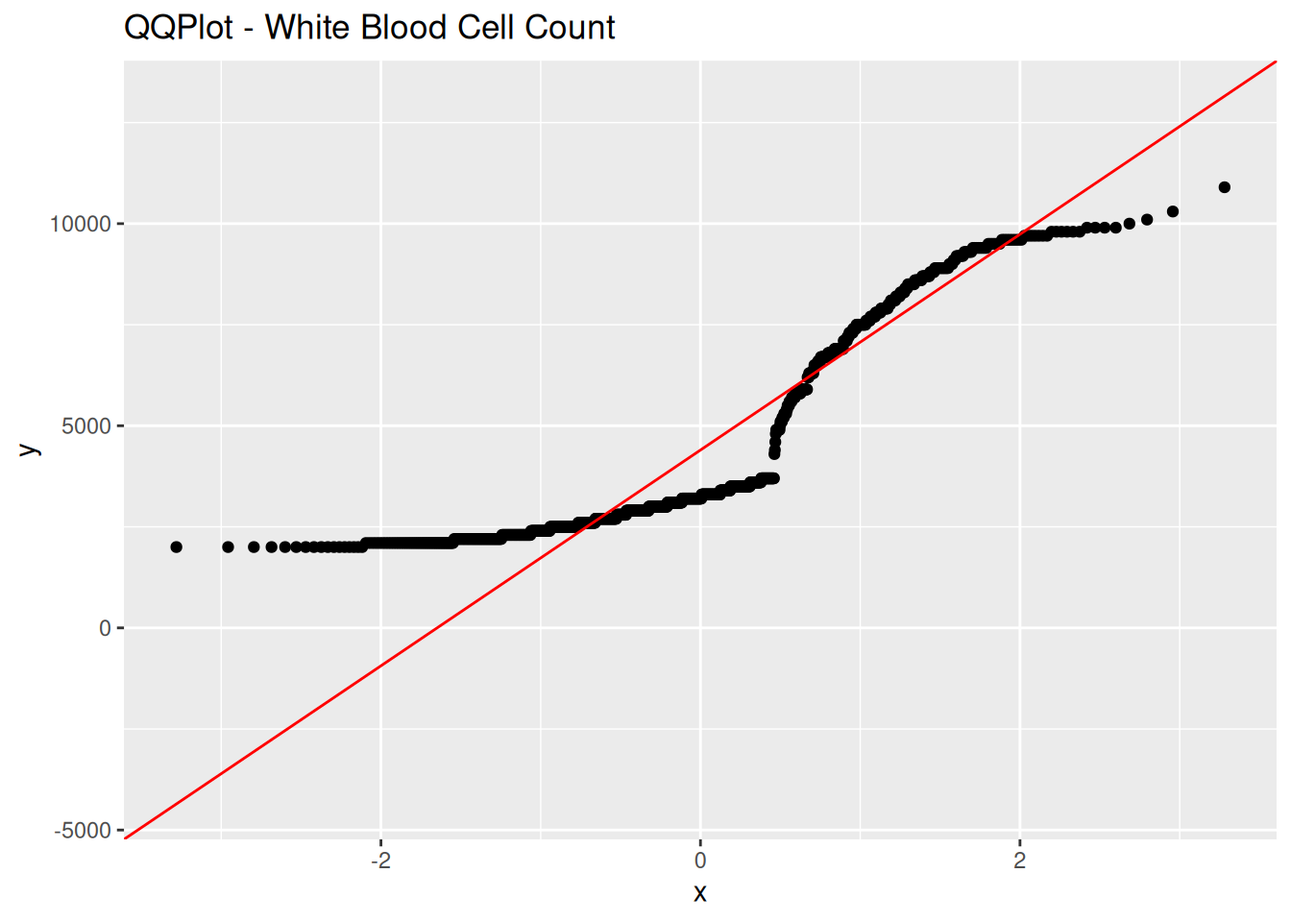
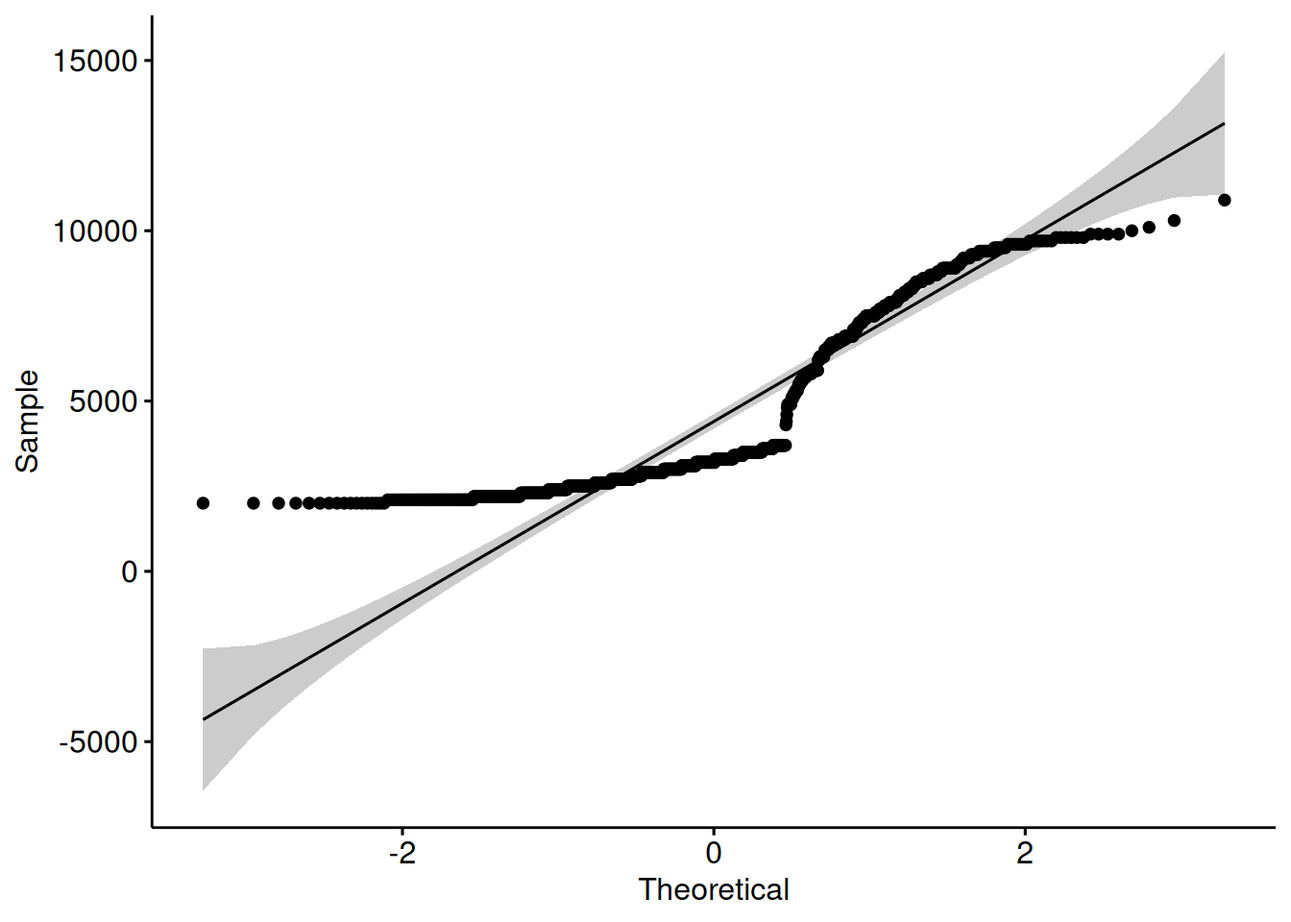
finalizacao do trabalho

diff --git a/trabalho.html b/trabalho.html
@@ -7,7 +7,7 @@
 <meta name="viewport" content="width=device-width, initial-scale=1.0, user-scalable=yes">
 
 <meta name="author" content="Alan C. Echer">
-<meta name="dcterms.date" content="2026-04-09">
+<meta name="dcterms.date" content="2026-04-13">
 
 <title>POS-GRADUAÇÃO - MBA Data Science em IA</title>
 <style>
@@ -103,6 +103,14 @@ pre > code.sourceCode > span > a:first-child::before { text-decoration: underlin
   <li><a href="#remoção-de-colunas-categóricas" id="toc-remoção-de-colunas-categóricas" class="nav-link" data-scroll-target="#remoção-de-colunas-categóricas"><span class="header-section-number">4</span> Remoção de colunas categóricas</a></li>
   <li><a href="#tratamento-de-valores-nullos" id="toc-tratamento-de-valores-nullos" class="nav-link" data-scroll-target="#tratamento-de-valores-nullos"><span class="header-section-number">5</span> Tratamento de Valores Nullos</a></li>
   <li><a href="#análise-de-pares" id="toc-análise-de-pares" class="nav-link" data-scroll-target="#análise-de-pares"><span class="header-section-number">6</span> Análise de pares</a></li>
+  <li><a href="#resultado-da-análise" id="toc-resultado-da-análise" class="nav-link" data-scroll-target="#resultado-da-análise"><span class="header-section-number">7</span> Resultado da Análise</a>
+  <ul class="collapse">
+  <li><a href="#distribuições-normais" id="toc-distribuições-normais" class="nav-link" data-scroll-target="#distribuições-normais"><span class="header-section-number">7.1</span> Distribuições normais</a></li>
+  <li><a href="#histogramas" id="toc-histogramas" class="nav-link" data-scroll-target="#histogramas"><span class="header-section-number">7.2</span> Histogramas</a></li>
+  <li><a href="#justificativa-dos-bins" id="toc-justificativa-dos-bins" class="nav-link" data-scroll-target="#justificativa-dos-bins"><span class="header-section-number">7.3</span> Justificativa dos Bins</a></li>
+  <li><a href="#shapiro-wilk" id="toc-shapiro-wilk" class="nav-link" data-scroll-target="#shapiro-wilk"><span class="header-section-number">7.4</span> Shapiro-Wilk</a></li>
+  </ul></li>
+  <li><a href="#dashboard-interativo" id="toc-dashboard-interativo" class="nav-link" data-scroll-target="#dashboard-interativo"><span class="header-section-number">8</span> Dashboard Interativo</a></li>
   </ul>
 </nav>
 </div>
@@ -128,7 +136,7 @@ pre > code.sourceCode > span > a:first-child::before { text-decoration: underlin
     <div>
     <div class="quarto-title-meta-heading">Published</div>
     <div class="quarto-title-meta-contents">
-      <p class="date">April 9, 2026</p>
+      <p class="date">April 13, 2026</p>
     </div>
   </div>
   
@@ -143,6 +151,13 @@ pre > code.sourceCode > span > a:first-child::before { text-decoration: underlin
 <section id="escolha-da-base-de-dados" class="level1" data-number="1">
 <h1 data-number="1"><span class="header-section-number">1</span> Escolha da Base de Dados</h1>
 <p>A base escolhida foi o dataset de Detecção de Dengue (dados clinicos) - Disponível no kaggle: <a href="https://www.kaggle.com/datasets/aravind3505/dengue-detection-dataset-clinical-data" class="uri">https://www.kaggle.com/datasets/aravind3505/dengue-detection-dataset-clinical-data</a></p>
+<div class="quarto-figure quarto-figure-center">
+<figure class="figure">
+<p><img src="https://storage.googleapis.com/kaggle-datasets-images/9801950/15325425/2cff7d54fd29a999223d94078bbdc0be/dataset-cover.png?t=2026-03-23-04-00-42" class="img-fluid figure-img"></p>
+<figcaption>Imagen dataset Dengue</figcaption>
+</figure>
+</div>
+<p><img src="kaggle-dataset.png" class="img-fluid"></p>
 <p>Motivo da escolha: Possui variáveis numéricas, dados faltantes, permite análise entre variáveis.</p>
 <p>Resultados esperados: Identificar relações entre variáveis, analisar distribuição dos dados.</p>
 </section>
@@ -152,14 +167,16 @@ pre > code.sourceCode > span > a:first-child::before { text-decoration: underlin
 <div class="code-copy-outer-scaffold"><div class="sourceCode cell-code" id="cb1"><pre class="sourceCode r code-with-copy"><code class="sourceCode r"><span id="cb1-1"><a href="#cb1-1" aria-hidden="true" tabindex="-1"></a><span class="fu">library</span>(summarytools)</span>
 <span id="cb1-2"><a href="#cb1-2" aria-hidden="true" tabindex="-1"></a><span class="fu">library</span>(tidyverse)</span>
 <span id="cb1-3"><a href="#cb1-3" aria-hidden="true" tabindex="-1"></a><span class="fu">library</span>(GGally)</span>
-<span id="cb1-4"><a href="#cb1-4" aria-hidden="true" tabindex="-1"></a><span class="fu">library</span>(mice)</span></code></pre></div><button title="Copy to Clipboard" class="code-copy-button"><i class="bi"></i></button></div>
+<span id="cb1-4"><a href="#cb1-4" aria-hidden="true" tabindex="-1"></a><span class="fu">library</span>(mice)</span>
+<span id="cb1-5"><a href="#cb1-5" aria-hidden="true" tabindex="-1"></a><span class="fu">library</span>(ggpubr)</span>
+<span id="cb1-6"><a href="#cb1-6" aria-hidden="true" tabindex="-1"></a><span class="fu">library</span>(shiny)</span></code></pre></div><button title="Copy to Clipboard" class="code-copy-button"><i class="bi"></i></button></div>
 </div>
 </section>
 <section id="carregamento-da-base-de-dados" class="level1" data-number="3">
 <h1 data-number="3"><span class="header-section-number">3</span> Carregamento da Base de Dados</h1>
 <div class="cell">
 <div class="code-copy-outer-scaffold"><div class="sourceCode cell-code" id="cb2"><pre class="sourceCode r code-with-copy"><code class="sourceCode r"><span id="cb2-1"><a href="#cb2-1" aria-hidden="true" tabindex="-1"></a>dados <span class="ot">&lt;-</span> <span class="fu">read.csv</span>(<span class="st">"data/dataset.csv"</span>)</span>
-<span id="cb2-2"><a href="#cb2-2" aria-hidden="true" tabindex="-1"></a><span class="fu">View</span>(dados)</span></code></pre></div><button title="Copy to Clipboard" class="code-copy-button"><i class="bi"></i></button></div>
+<span id="cb2-2"><a href="#cb2-2" aria-hidden="true" tabindex="-1"></a><span class="co">#View(dados)</span></span></code></pre></div><button title="Copy to Clipboard" class="code-copy-button"><i class="bi"></i></button></div>
 </div>
 <div class="cell">
 <div class="code-copy-outer-scaffold"><div class="sourceCode cell-code" id="cb3"><pre class="sourceCode r code-with-copy"><code class="sourceCode r"><span id="cb3-1"><a href="#cb3-1" aria-hidden="true" tabindex="-1"></a><span class="fu">summary</span>(dados)</span></code></pre></div><button title="Copy to Clipboard" class="code-copy-button"><i class="bi"></i></button></div>
@@ -319,14 +336,14 @@ Table: Table continues below
 <span id="cb7-76"><a href="#cb7-76" aria-hidden="true" tabindex="-1"></a>         <span class="at">y =</span> <span class="st">"Frequência"</span>)<span class="sc">+</span></span>
 <span id="cb7-77"><a href="#cb7-77" aria-hidden="true" tabindex="-1"></a>    <span class="fu">scale_x_continuous</span>(<span class="at">labels =</span> scales<span class="sc">::</span>comma)</span>
 <span id="cb7-78"><a href="#cb7-78" aria-hidden="true" tabindex="-1"></a>  </span>
-<span id="cb7-79"><a href="#cb7-79" aria-hidden="true" tabindex="-1"></a>  qqplot <span class="ot">&lt;-</span> <span class="fu">ggplot</span>(dados, <span class="fu">aes</span>(<span class="at">sample =</span> column)) <span class="sc">+</span></span>
-<span id="cb7-80"><a href="#cb7-80" aria-hidden="true" tabindex="-1"></a>    <span class="fu">stat_qq</span>() <span class="sc">+</span></span>
-<span id="cb7-81"><a href="#cb7-81" aria-hidden="true" tabindex="-1"></a>    <span class="fu">stat_qq_line</span>(<span class="at">color =</span> <span class="st">"red"</span>) <span class="sc">+</span></span>
-<span id="cb7-82"><a href="#cb7-82" aria-hidden="true" tabindex="-1"></a>    <span class="fu">labs</span>(<span class="at">title =</span> <span class="fu">paste</span>(<span class="st">"QQPlot -"</span>, columnLabel))</span>
-<span id="cb7-83"><a href="#cb7-83" aria-hidden="true" tabindex="-1"></a></span>
-<span id="cb7-84"><a href="#cb7-84" aria-hidden="true" tabindex="-1"></a>  <span class="fu">print</span>(box)</span>
-<span id="cb7-85"><a href="#cb7-85" aria-hidden="true" tabindex="-1"></a>  <span class="fu">print</span>(hist)</span>
-<span id="cb7-86"><a href="#cb7-86" aria-hidden="true" tabindex="-1"></a>  <span class="fu">print</span>(qqplot)</span>
+<span id="cb7-79"><a href="#cb7-79" aria-hidden="true" tabindex="-1"></a>  qqplot <span class="ot">&lt;-</span> <span class="fu">ggqqplot</span>(column)</span>
+<span id="cb7-80"><a href="#cb7-80" aria-hidden="true" tabindex="-1"></a>  </span>
+<span id="cb7-81"><a href="#cb7-81" aria-hidden="true" tabindex="-1"></a>  shapiro_test <span class="ot">&lt;-</span> <span class="fu">shapiro.test</span>(column)</span>
+<span id="cb7-82"><a href="#cb7-82" aria-hidden="true" tabindex="-1"></a></span>
+<span id="cb7-83"><a href="#cb7-83" aria-hidden="true" tabindex="-1"></a>  <span class="fu">print</span>(box)</span>
+<span id="cb7-84"><a href="#cb7-84" aria-hidden="true" tabindex="-1"></a>  <span class="fu">print</span>(hist)</span>
+<span id="cb7-85"><a href="#cb7-85" aria-hidden="true" tabindex="-1"></a>  <span class="fu">print</span>(qqplot)</span>
+<span id="cb7-86"><a href="#cb7-86" aria-hidden="true" tabindex="-1"></a>  <span class="fu">print</span>(shapiro_test)</span>
 <span id="cb7-87"><a href="#cb7-87" aria-hidden="true" tabindex="-1"></a></span>
 <span id="cb7-88"><a href="#cb7-88" aria-hidden="true" tabindex="-1"></a>}</span></code></pre></div><button title="Copy to Clipboard" class="code-copy-button"><i class="bi"></i></button></div>
 </div>
@@ -355,8 +372,19 @@ Table: Table continues below
 <section id="completude-de-dados" class="level2" data-number="3.2">
 <h2 data-number="3.2" class="anchored" data-anchor-id="completude-de-dados"><span class="header-section-number">3.2</span> Completude de dados</h2>
 <p>Os dados estão em sua maioria preenchidos a nao ser pelos poucos dados faltantes das colunas acima.</p>
+<p>Na minha visão, a completude impacta diretamente a análise exploratória, pois a presença de dados faltantes reduz a quantidade de informações disponíveis e pode comprometer os resultados.</p>
+<p>Durante a análise, percebo que valores ausentes podem distorcer medidas estatísticas, dificultar a identificação de padrões e influenciar a interpretação dos dados.</p>
+<pre><code>platelet_count: 98%</code></pre>
+<pre><code>platelet_distribution_width: 98%</code></pre>
+<pre><code>wbc_count: 97%</code></pre>
+<pre><code>age: 100%</code></pre>
+<pre><code>hemoglobin_g_dl: 100% </code></pre>
+<pre><code>differential_count: 100%</code></pre>
+<pre><code>dengue_label: 100%</code></pre>
+<pre><code>gender: 100%</code></pre>
+<pre><code>rbc_count: 100%</code></pre>
 <div class="cell">
-<div class="code-copy-outer-scaffold"><div class="sourceCode cell-code" id="cb13"><pre class="sourceCode r code-with-copy"><code class="sourceCode r"><span id="cb13-1"><a href="#cb13-1" aria-hidden="true" tabindex="-1"></a><span class="fu">colMeans</span>(<span class="sc">!</span><span class="fu">is.na</span>(dados))</span></code></pre></div><button title="Copy to Clipboard" class="code-copy-button"><i class="bi"></i></button></div>
+<div class="code-copy-outer-scaffold"><div class="sourceCode cell-code" id="cb22"><pre class="sourceCode r code-with-copy"><code class="sourceCode r"><span id="cb22-1"><a href="#cb22-1" aria-hidden="true" tabindex="-1"></a><span class="fu">colMeans</span>(<span class="sc">!</span><span class="fu">is.na</span>(dados))</span></code></pre></div><button title="Copy to Clipboard" class="code-copy-button"><i class="bi"></i></button></div>
 <div class="cell-output cell-output-stdout">
 <pre><code>                        age                      gender 
                   1.0000000                   1.0000000 
@@ -375,7 +403,7 @@ Table: Table continues below
 <h2 data-number="3.3" class="anchored" data-anchor-id="análise-da-variável-age"><span class="header-section-number">3.3</span> Análise da Variável Age</h2>
 <p>A variável age apresenta alguns outliers acima do limite superior, incluindo um valor próximo de 120 anos. Apesar disso, média e mediana são próximas, indicando que os dados não são muito assimétricos.</p>
 <div class="cell">
-<div class="code-copy-outer-scaffold"><div class="sourceCode cell-code" id="cb15"><pre class="sourceCode r code-with-copy"><code class="sourceCode r"><span id="cb15-1"><a href="#cb15-1" aria-hidden="true" tabindex="-1"></a><span class="fu">analyze_numerical</span>(dados<span class="sc">$</span>age, <span class="st">"Age"</span>)</span></code></pre></div><button title="Copy to Clipboard" class="code-copy-button"><i class="bi"></i></button></div>
+<div class="code-copy-outer-scaffold"><div class="sourceCode cell-code" id="cb24"><pre class="sourceCode r code-with-copy"><code class="sourceCode r"><span id="cb24-1"><a href="#cb24-1" aria-hidden="true" tabindex="-1"></a><span class="fu">analyze_numerical</span>(dados<span class="sc">$</span>age, <span class="st">"Age"</span>)</span></code></pre></div><button title="Copy to Clipboard" class="code-copy-button"><i class="bi"></i></button></div>
 <div class="cell-output cell-output-stdout">
 <pre><code>Média: 42.19919 
 Mediana: 40 
@@ -405,13 +433,20 @@ IQR: 28 </code></pre>
 </figure>
 </div>
 </div>
+<div class="cell-output cell-output-stdout">
+<pre><code>
+    Shapiro-Wilk normality test
+
+data:  column
+W = 0.97524, p-value = 6.081e-12</code></pre>
+</div>
 </div>
 </section>
 <section id="análise-da-variável-hemoglobin-level" class="level2" data-number="3.4">
 <h2 data-number="3.4" class="anchored" data-anchor-id="análise-da-variável-hemoglobin-level"><span class="header-section-number">3.4</span> Análise da Variável Hemoglobin Level</h2>
 <p>A variável apresenta outliers acima do limite superior, com valores próximos de 25. Mesmo assim, média e mediana são próximas, indicando baixa assimetria.</p>
 <div class="cell">
-<div class="code-copy-outer-scaffold"><div class="sourceCode cell-code" id="cb17"><pre class="sourceCode r code-with-copy"><code class="sourceCode r"><span id="cb17-1"><a href="#cb17-1" aria-hidden="true" tabindex="-1"></a><span class="fu">analyze_numerical</span>(dados<span class="sc">$</span>hemoglobin_g_dl, <span class="st">"Hemoglobin Level"</span>)</span></code></pre></div><button title="Copy to Clipboard" class="code-copy-button"><i class="bi"></i></button></div>
+<div class="code-copy-outer-scaffold"><div class="sourceCode cell-code" id="cb27"><pre class="sourceCode r code-with-copy"><code class="sourceCode r"><span id="cb27-1"><a href="#cb27-1" aria-hidden="true" tabindex="-1"></a><span class="fu">analyze_numerical</span>(dados<span class="sc">$</span>hemoglobin_g_dl, <span class="st">"Hemoglobin Level"</span>)</span></code></pre></div><button title="Copy to Clipboard" class="code-copy-button"><i class="bi"></i></button></div>
 <div class="cell-output cell-output-stdout">
 <pre><code>Média: 13.71294 
 Mediana: 13.7 
@@ -441,13 +476,20 @@ IQR: 2.4 </code></pre>
 </figure>
 </div>
 </div>
+<div class="cell-output cell-output-stdout">
+<pre><code>
+    Shapiro-Wilk normality test
+
+data:  column
+W = 0.94491, p-value &lt; 2.2e-16</code></pre>
+</div>
 </div>
 </section>
 <section id="análise-da-variável-white-blood-cell-count" class="level2" data-number="3.5">
 <h2 data-number="3.5" class="anchored" data-anchor-id="análise-da-variável-white-blood-cell-count"><span class="header-section-number">3.5</span> Análise da Variável White Blood Cell Count</h2>
 <p>A variável apresenta outliers e dados faltantes. A diferença entre média e mediana indica leve assimetria, e a distribuição não parece normal.</p>
 <div class="cell">
-<div class="code-copy-outer-scaffold"><div class="sourceCode cell-code" id="cb19"><pre class="sourceCode r code-with-copy"><code class="sourceCode r"><span id="cb19-1"><a href="#cb19-1" aria-hidden="true" tabindex="-1"></a><span class="fu">analyze_numerical</span>(dados<span class="sc">$</span>wbc_count, <span class="st">"White Blood Cell Count"</span>)</span></code></pre></div><button title="Copy to Clipboard" class="code-copy-button"><i class="bi"></i></button></div>
+<div class="code-copy-outer-scaffold"><div class="sourceCode cell-code" id="cb30"><pre class="sourceCode r code-with-copy"><code class="sourceCode r"><span id="cb30-1"><a href="#cb30-1" aria-hidden="true" tabindex="-1"></a><span class="fu">analyze_numerical</span>(dados<span class="sc">$</span>wbc_count, <span class="st">"White Blood Cell Count"</span>)</span></code></pre></div><button title="Copy to Clipboard" class="code-copy-button"><i class="bi"></i></button></div>
 <div class="cell-output cell-output-stdout">
 <pre><code>Média: 4338.031 
 Mediana: 3200 
@@ -477,13 +519,20 @@ IQR: 3600 </code></pre>
 </figure>
 </div>
 </div>
+<div class="cell-output cell-output-stdout">
+<pre><code>
+    Shapiro-Wilk normality test
+
+data:  column
+W = 0.80885, p-value &lt; 2.2e-16</code></pre>
+</div>
 </div>
 </section>
 <section id="análise-da-variável-platelet-count" class="level2" data-number="3.6">
 <h2 data-number="3.6" class="anchored" data-anchor-id="análise-da-variável-platelet-count"><span class="header-section-number">3.6</span> Análise da Variável Platelet Count</h2>
 <p>A variável apresenta outliers e dados faltantes. A diferença entre média e mediana indica assimetria nos dados.</p>
 <div class="cell">
-<div class="code-copy-outer-scaffold"><div class="sourceCode cell-code" id="cb21"><pre class="sourceCode r code-with-copy"><code class="sourceCode r"><span id="cb21-1"><a href="#cb21-1" aria-hidden="true" tabindex="-1"></a><span class="fu">analyze_numerical</span>(dados<span class="sc">$</span>platelet_count, <span class="st">"Platelet Count"</span>)</span></code></pre></div><button title="Copy to Clipboard" class="code-copy-button"><i class="bi"></i></button></div>
+<div class="code-copy-outer-scaffold"><div class="sourceCode cell-code" id="cb33"><pre class="sourceCode r code-with-copy"><code class="sourceCode r"><span id="cb33-1"><a href="#cb33-1" aria-hidden="true" tabindex="-1"></a><span class="fu">analyze_numerical</span>(dados<span class="sc">$</span>platelet_count, <span class="st">"Platelet Count"</span>)</span></code></pre></div><button title="Copy to Clipboard" class="code-copy-button"><i class="bi"></i></button></div>
 <div class="cell-output cell-output-stdout">
 <pre><code>Média: 114702.2 
 Mediana: 93000 
@@ -513,13 +562,20 @@ IQR: 116500 </code></pre>
 </figure>
 </div>
 </div>
+<div class="cell-output cell-output-stdout">
+<pre><code>
+    Shapiro-Wilk normality test
+
+data:  column
+W = 0.87991, p-value &lt; 2.2e-16</code></pre>
+</div>
 </div>
 </section>
 <section id="análise-da-variável-variation-in-platelet" class="level2" data-number="3.7">
 <h2 data-number="3.7" class="anchored" data-anchor-id="análise-da-variável-variation-in-platelet"><span class="header-section-number">3.7</span> Análise da Variável Variation in Platelet</h2>
 <p>A variável apresenta alguns outliers e dados faltantes, mas média e mediana próximas indicam baixa assimetria.</p>
 <div class="cell">
-<div class="code-copy-outer-scaffold"><div class="sourceCode cell-code" id="cb23"><pre class="sourceCode r code-with-copy"><code class="sourceCode r"><span id="cb23-1"><a href="#cb23-1" aria-hidden="true" tabindex="-1"></a><span class="fu">analyze_numerical</span>(dados<span class="sc">$</span>platelet_distribution_width, <span class="st">"Variation in Platelet"</span>)</span></code></pre></div><button title="Copy to Clipboard" class="code-copy-button"><i class="bi"></i></button></div>
+<div class="code-copy-outer-scaffold"><div class="sourceCode cell-code" id="cb36"><pre class="sourceCode r code-with-copy"><code class="sourceCode r"><span id="cb36-1"><a href="#cb36-1" aria-hidden="true" tabindex="-1"></a><span class="fu">analyze_numerical</span>(dados<span class="sc">$</span>platelet_distribution_width, <span class="st">"Variation in Platelet"</span>)</span></code></pre></div><button title="Copy to Clipboard" class="code-copy-button"><i class="bi"></i></button></div>
 <div class="cell-output cell-output-stdout">
 <pre><code>Média: 22.84887 
 Mediana: 17.8 
@@ -549,13 +605,20 @@ IQR: 14.2 </code></pre>
 </figure>
 </div>
 </div>
+<div class="cell-output cell-output-stdout">
+<pre><code>
+    Shapiro-Wilk normality test
+
+data:  column
+W = 0.65462, p-value &lt; 2.2e-16</code></pre>
+</div>
 </div>
 </section>
 <section id="análise-da-variável-dengue" class="level2" data-number="3.8">
 <h2 data-number="3.8" class="anchored" data-anchor-id="análise-da-variável-dengue"><span class="header-section-number">3.8</span> Análise da Variável Dengue</h2>
 <p>A variável mostra a distribuição dos casos com e sem dengue.</p>
 <div class="cell">
-<div class="code-copy-outer-scaffold"><div class="sourceCode cell-code" id="cb25"><pre class="sourceCode r code-with-copy"><code class="sourceCode r"><span id="cb25-1"><a href="#cb25-1" aria-hidden="true" tabindex="-1"></a><span class="fu">analyze_categorical</span>(dados<span class="sc">$</span>dengue_label, <span class="st">"Target Variable"</span>)</span></code></pre></div><button title="Copy to Clipboard" class="code-copy-button"><i class="bi"></i></button></div>
+<div class="code-copy-outer-scaffold"><div class="sourceCode cell-code" id="cb39"><pre class="sourceCode r code-with-copy"><code class="sourceCode r"><span id="cb39-1"><a href="#cb39-1" aria-hidden="true" tabindex="-1"></a><span class="fu">analyze_categorical</span>(dados<span class="sc">$</span>dengue_label, <span class="st">"Target Variable"</span>)</span></code></pre></div><button title="Copy to Clipboard" class="code-copy-button"><i class="bi"></i></button></div>
 <div class="cell-output-display">
 <div>
 <figure class="figure">
@@ -569,7 +632,7 @@ IQR: 14.2 </code></pre>
 <h2 data-number="3.9" class="anchored" data-anchor-id="análise-da-variável-gender"><span class="header-section-number">3.9</span> Análise da Variável Gender</h2>
 <p>A variável apresenta a distribuição de gênero na base, podendo indicar possível desbalanceamento.</p>
 <div class="cell">
-<div class="code-copy-outer-scaffold"><div class="sourceCode cell-code" id="cb26"><pre class="sourceCode r code-with-copy"><code class="sourceCode r"><span id="cb26-1"><a href="#cb26-1" aria-hidden="true" tabindex="-1"></a><span class="fu">analyze_categorical</span>(dados<span class="sc">$</span>gender, <span class="st">"Gender"</span>)</span></code></pre></div><button title="Copy to Clipboard" class="code-copy-button"><i class="bi"></i></button></div>
+<div class="code-copy-outer-scaffold"><div class="sourceCode cell-code" id="cb40"><pre class="sourceCode r code-with-copy"><code class="sourceCode r"><span id="cb40-1"><a href="#cb40-1" aria-hidden="true" tabindex="-1"></a><span class="fu">analyze_categorical</span>(dados<span class="sc">$</span>gender, <span class="st">"Gender"</span>)</span></code></pre></div><button title="Copy to Clipboard" class="code-copy-button"><i class="bi"></i></button></div>
 <div class="cell-output-display">
 <div>
 <figure class="figure">
@@ -583,8 +646,8 @@ IQR: 14.2 </code></pre>
 <h2 data-number="3.10" class="anchored" data-anchor-id="análise-da-variável-differential-count"><span class="header-section-number">3.10</span> Análise da Variável Differential Count</h2>
 <p>A variável apresenta a distribuição das categorias relacionadas à contagem diferencial. A análise permite observar a frequência de cada grupo e identificar possíveis desbalanceamentos.</p>
 <div class="cell">
-<div class="code-copy-outer-scaffold"><div class="sourceCode cell-code" id="cb27"><pre class="sourceCode r code-with-copy"><code class="sourceCode r"><span id="cb27-1"><a href="#cb27-1" aria-hidden="true" tabindex="-1"></a>dados<span class="sc">$</span>differential_count <span class="ot">=</span> <span class="fu">as.factor</span>(dados<span class="sc">$</span>differential_count)</span>
-<span id="cb27-2"><a href="#cb27-2" aria-hidden="true" tabindex="-1"></a><span class="fu">analyze_categorical</span>(dados<span class="sc">$</span>differential_count, <span class="st">"Diff White Blood Cell Count"</span>)</span></code></pre></div><button title="Copy to Clipboard" class="code-copy-button"><i class="bi"></i></button></div>
+<div class="code-copy-outer-scaffold"><div class="sourceCode cell-code" id="cb41"><pre class="sourceCode r code-with-copy"><code class="sourceCode r"><span id="cb41-1"><a href="#cb41-1" aria-hidden="true" tabindex="-1"></a>dados<span class="sc">$</span>differential_count <span class="ot">=</span> <span class="fu">as.factor</span>(dados<span class="sc">$</span>differential_count)</span>
+<span id="cb41-2"><a href="#cb41-2" aria-hidden="true" tabindex="-1"></a><span class="fu">analyze_categorical</span>(dados<span class="sc">$</span>differential_count, <span class="st">"Diff White Blood Cell Count"</span>)</span></code></pre></div><button title="Copy to Clipboard" class="code-copy-button"><i class="bi"></i></button></div>
 <div class="cell-output-display">
 <div>
 <figure class="figure">
@@ -598,8 +661,8 @@ IQR: 14.2 </code></pre>
 <h2 data-number="3.11" class="anchored" data-anchor-id="análise-da-variável-red-blood-cell-count"><span class="header-section-number">3.11</span> Análise da Variável Red Blood Cell Count</h2>
 <p>A variável apresenta a distribuição das categorias relacionadas à contagem de glóbulos vermelhos. É possível observar a proporção entre os grupos e verificar possíveis diferenças entre eles.</p>
 <div class="cell">
-<div class="code-copy-outer-scaffold"><div class="sourceCode cell-code" id="cb28"><pre class="sourceCode r code-with-copy"><code class="sourceCode r"><span id="cb28-1"><a href="#cb28-1" aria-hidden="true" tabindex="-1"></a>dados<span class="sc">$</span>rbc_count <span class="ot">=</span> <span class="fu">as.factor</span>(dados<span class="sc">$</span>rbc_count)</span>
-<span id="cb28-2"><a href="#cb28-2" aria-hidden="true" tabindex="-1"></a><span class="fu">analyze_categorical</span>(dados<span class="sc">$</span>rbc_count, <span class="st">"Red Blood Cell Count"</span>)</span></code></pre></div><button title="Copy to Clipboard" class="code-copy-button"><i class="bi"></i></button></div>
+<div class="code-copy-outer-scaffold"><div class="sourceCode cell-code" id="cb42"><pre class="sourceCode r code-with-copy"><code class="sourceCode r"><span id="cb42-1"><a href="#cb42-1" aria-hidden="true" tabindex="-1"></a>dados<span class="sc">$</span>rbc_count <span class="ot">=</span> <span class="fu">as.factor</span>(dados<span class="sc">$</span>rbc_count)</span>
+<span id="cb42-2"><a href="#cb42-2" aria-hidden="true" tabindex="-1"></a><span class="fu">analyze_categorical</span>(dados<span class="sc">$</span>rbc_count, <span class="st">"Red Blood Cell Count"</span>)</span></code></pre></div><button title="Copy to Clipboard" class="code-copy-button"><i class="bi"></i></button></div>
 <div class="cell-output-display">
 <div>
 <figure class="figure">
@@ -613,14 +676,14 @@ IQR: 14.2 </code></pre>
 <section id="remoção-de-colunas-categóricas" class="level1" data-number="4">
 <h1 data-number="4"><span class="header-section-number">4</span> Remoção de colunas categóricas</h1>
 <div class="cell">
-<div class="code-copy-outer-scaffold"><div class="sourceCode cell-code" id="cb29"><pre class="sourceCode r code-with-copy"><code class="sourceCode r"><span id="cb29-1"><a href="#cb29-1" aria-hidden="true" tabindex="-1"></a>dados <span class="ot">&lt;-</span> dados[, <span class="fu">sapply</span>(dados, is.numeric)]</span></code></pre></div><button title="Copy to Clipboard" class="code-copy-button"><i class="bi"></i></button></div>
+<div class="code-copy-outer-scaffold"><div class="sourceCode cell-code" id="cb43"><pre class="sourceCode r code-with-copy"><code class="sourceCode r"><span id="cb43-1"><a href="#cb43-1" aria-hidden="true" tabindex="-1"></a>dados <span class="ot">&lt;-</span> dados[, <span class="fu">sapply</span>(dados, is.numeric)]</span></code></pre></div><button title="Copy to Clipboard" class="code-copy-button"><i class="bi"></i></button></div>
 </div>
 </section>
 <section id="tratamento-de-valores-nullos" class="level1" data-number="5">
 <h1 data-number="5"><span class="header-section-number">5</span> Tratamento de Valores Nullos</h1>
 <p>Para tratar os dados faltantes, foi utilizada a técnica de imputação por meio do pacote MICE. O método utilizado foi o Predictive Mean Matching (PMM), que estima valores ausentes com base em valores observados semelhantes, preservando a distribuição dos dados. Foram realizadas 5 imputações (m=5). O parâmetro seed foi utilizado para garantir a reprodutibilidade dos resultados.</p>
 <div class="cell">
-<div class="code-copy-outer-scaffold"><div class="sourceCode cell-code" id="cb30"><pre class="sourceCode r code-with-copy"><code class="sourceCode r"><span id="cb30-1"><a href="#cb30-1" aria-hidden="true" tabindex="-1"></a>dados <span class="ot">=</span> <span class="fu">complete</span>(<span class="fu">mice</span>(dados, <span class="at">m=</span><span class="dv">5</span>, <span class="at">method=</span><span class="st">"pmm"</span>, <span class="at">seed=</span><span class="dv">123</span>))</span></code></pre></div><button title="Copy to Clipboard" class="code-copy-button"><i class="bi"></i></button></div>
+<div class="code-copy-outer-scaffold"><div class="sourceCode cell-code" id="cb44"><pre class="sourceCode r code-with-copy"><code class="sourceCode r"><span id="cb44-1"><a href="#cb44-1" aria-hidden="true" tabindex="-1"></a>dados <span class="ot">=</span> <span class="fu">complete</span>(<span class="fu">mice</span>(dados, <span class="at">m=</span><span class="dv">5</span>, <span class="at">method=</span><span class="st">"pmm"</span>, <span class="at">seed=</span><span class="dv">123</span>))</span></code></pre></div><button title="Copy to Clipboard" class="code-copy-button"><i class="bi"></i></button></div>
 <div class="cell-output cell-output-stdout">
 <pre><code>
  iter imp variable
@@ -653,7 +716,7 @@ IQR: 14.2 </code></pre>
 </div>
 <p>Verificamos novamente se existem valores nullos</p>
 <div class="cell">
-<div class="code-copy-outer-scaffold"><div class="sourceCode cell-code" id="cb32"><pre class="sourceCode r code-with-copy"><code class="sourceCode r"><span id="cb32-1"><a href="#cb32-1" aria-hidden="true" tabindex="-1"></a><span class="fu">colSums</span>(<span class="fu">is.na</span>(dados))</span></code></pre></div><button title="Copy to Clipboard" class="code-copy-button"><i class="bi"></i></button></div>
+<div class="code-copy-outer-scaffold"><div class="sourceCode cell-code" id="cb46"><pre class="sourceCode r code-with-copy"><code class="sourceCode r"><span id="cb46-1"><a href="#cb46-1" aria-hidden="true" tabindex="-1"></a><span class="fu">colSums</span>(<span class="fu">is.na</span>(dados))</span></code></pre></div><button title="Copy to Clipboard" class="code-copy-button"><i class="bi"></i></button></div>
 <div class="cell-output cell-output-stdout">
 <pre><code>                        age             hemoglobin_g_dl 
                           0                           0 
@@ -667,7 +730,24 @@ platelet_distribution_width                dengue_label
 <section id="análise-de-pares" class="level1" data-number="6">
 <h1 data-number="6"><span class="header-section-number">6</span> Análise de pares</h1>
 <div class="cell">
-<div class="code-copy-outer-scaffold"><div class="sourceCode cell-code" id="cb34"><pre class="sourceCode r code-with-copy"><code class="sourceCode r"><span id="cb34-1"><a href="#cb34-1" aria-hidden="true" tabindex="-1"></a><span class="fu">ggpairs</span>(dados)</span></code></pre></div><button title="Copy to Clipboard" class="code-copy-button"><i class="bi"></i></button></div>
+<div class="code-copy-outer-scaffold"><div class="sourceCode cell-code" id="cb48"><pre class="sourceCode r code-with-copy"><code class="sourceCode r"><span id="cb48-1"><a href="#cb48-1" aria-hidden="true" tabindex="-1"></a><span class="fu">ggpairs</span>(</span>
+<span id="cb48-2"><a href="#cb48-2" aria-hidden="true" tabindex="-1"></a>  dados,</span>
+<span id="cb48-3"><a href="#cb48-3" aria-hidden="true" tabindex="-1"></a>  </span>
+<span id="cb48-4"><a href="#cb48-4" aria-hidden="true" tabindex="-1"></a>  <span class="at">lower =</span> <span class="fu">list</span>(</span>
+<span id="cb48-5"><a href="#cb48-5" aria-hidden="true" tabindex="-1"></a>    <span class="at">continuous =</span> <span class="fu">wrap</span>(<span class="st">"points"</span>) <span class="sc">+</span></span>
+<span id="cb48-6"><a href="#cb48-6" aria-hidden="true" tabindex="-1"></a>      <span class="fu">scale_x_continuous</span>(<span class="at">labels =</span> scales<span class="sc">::</span>comma) <span class="sc">+</span></span>
+<span id="cb48-7"><a href="#cb48-7" aria-hidden="true" tabindex="-1"></a>      <span class="fu">scale_y_continuous</span>(<span class="at">labels =</span> scales<span class="sc">::</span>comma)</span>
+<span id="cb48-8"><a href="#cb48-8" aria-hidden="true" tabindex="-1"></a>  ),</span>
+<span id="cb48-9"><a href="#cb48-9" aria-hidden="true" tabindex="-1"></a>  </span>
+<span id="cb48-10"><a href="#cb48-10" aria-hidden="true" tabindex="-1"></a>  <span class="at">diag =</span> <span class="fu">list</span>(</span>
+<span id="cb48-11"><a href="#cb48-11" aria-hidden="true" tabindex="-1"></a>    <span class="at">continuous =</span> <span class="fu">wrap</span>(<span class="st">"densityDiag"</span>) <span class="sc">+</span></span>
+<span id="cb48-12"><a href="#cb48-12" aria-hidden="true" tabindex="-1"></a>      <span class="fu">scale_x_continuous</span>(<span class="at">labels =</span> scales<span class="sc">::</span>comma)</span>
+<span id="cb48-13"><a href="#cb48-13" aria-hidden="true" tabindex="-1"></a>  ),</span>
+<span id="cb48-14"><a href="#cb48-14" aria-hidden="true" tabindex="-1"></a>  </span>
+<span id="cb48-15"><a href="#cb48-15" aria-hidden="true" tabindex="-1"></a>  <span class="at">upper =</span> <span class="fu">list</span>(</span>
+<span id="cb48-16"><a href="#cb48-16" aria-hidden="true" tabindex="-1"></a>    <span class="at">continuous =</span> <span class="fu">wrap</span>(<span class="st">"cor"</span>, <span class="at">size =</span> <span class="dv">4</span>)</span>
+<span id="cb48-17"><a href="#cb48-17" aria-hidden="true" tabindex="-1"></a>  )</span>
+<span id="cb48-18"><a href="#cb48-18" aria-hidden="true" tabindex="-1"></a>)<span class="sc">+</span> <span class="fu">theme</span>(<span class="at">axis.text =</span> <span class="fu">element_text</span>())</span></code></pre></div><button title="Copy to Clipboard" class="code-copy-button"><i class="bi"></i></button></div>
 <div class="cell-output-display">
 <div>
 <figure class="figure">
@@ -676,6 +756,86 @@ platelet_distribution_width                dengue_label
 </div>
 </div>
 </div>
+<p>A partir da análise visual da matriz de espalhamento as maiores correlações foram encontradas entre platelet_count e wbc_count, seguidas pelas relações com dengue_label e platelet_distribution_width, platelet_count e dengue_label, e platelet_count e platelet_distribution_width. As demais variáveis apresentam baixa correlação.<br>
+<br>
+1. platelet_count × wbc_count → corr ≈ 0.749<br>
+2. platelet_distribution_width × dengue_label → corr ≈ -0.651<br>
+3. platelet_count × dengue_label → corr ≈ -0.577<br>
+4. platelet_count × platelet_distribution_width → corr ≈ 0.456</p>
+</section>
+<section id="resultado-da-análise" class="level1" data-number="7">
+<h1 data-number="7"><span class="header-section-number">7</span> Resultado da Análise</h1>
+<section id="distribuições-normais" class="level2" data-number="7.1">
+<h2 data-number="7.1" class="anchored" data-anchor-id="distribuições-normais"><span class="header-section-number">7.1</span> Distribuições normais</h2>
+<p>Com base na análise, observei que as variáveis age e hemoglobin_g_dl apresentam comportamento mais próximo de uma distribuição normal, com menor assimetria. Por outro lado, as variáveis wbc_count, platelet_count e platelet_distribution_width apresentam comportamento semelhante, com assimetria e presença de valores extremos, afastando-se da normalidade.</p>
+</section>
+<section id="histogramas" class="level2" data-number="7.2">
+<h2 data-number="7.2" class="anchored" data-anchor-id="histogramas"><span class="header-section-number">7.2</span> Histogramas</h2>
+<p>A partir da análise dos histogramas, observa-se que as variáveis age e hemoglobin_g_dl apresentam distribuição mais próxima da simétrica, com concentração de valores centrais e baixa assimetria. Por outro lado, as variáveis wbc_count, platelet_count e platelet_distribution_width apresentam comportamento semelhante, com assimetria à direita, indicando maior concentração de valores baixos e presença de cauda para valores elevados.</p>
+</section>
+<section id="justificativa-dos-bins" class="level2" data-number="7.3">
+<h2 data-number="7.3" class="anchored" data-anchor-id="justificativa-dos-bins"><span class="header-section-number">7.3</span> Justificativa dos Bins</h2>
+<p>O número de bins utilizado nos histogramas foi definido automaticamente com base na regra de Freedman-Diaconis, considerando a variabilidade e o tamanho da amostra. Essa abordagem foi aplicada de forma consistente para todas as variáveis, garantindo um equilíbrio entre detalhamento e clareza visual, independentemente das diferenças de escala e dispersão entre elas.</p>
+</section>
+<section id="shapiro-wilk" class="level2" data-number="7.4">
+<h2 data-number="7.4" class="anchored" data-anchor-id="shapiro-wilk"><span class="header-section-number">7.4</span> Shapiro-Wilk</h2>
+<p>O teste de Shapiro-Wilk indicou p-values menores que 0.05 para todas as variáveis, sugerindo não normalidade. No entanto, como a base de dados possui um número elevado de observações, o teste tende a ser muito sensível. Dessa forma, a análise foi complementada com histogramas e gráficos Q-Q, que indicaram que algumas variáveis apresentam comportamento próximo à normalidade, conforme descrito acima.</p>
+</section>
+</section>
+<section id="dashboard-interativo" class="level1" data-number="8">
+<h1 data-number="8"><span class="header-section-number">8</span> Dashboard Interativo</h1>
+<p>Foi desenvolvido um dashboard interativo utilizando o pacote Shiny, permitindo a seleção de variáveis numéricas da base de dados, o usuário pode escolher a variável a ser analisada, definir a cor do gráfico de linha e ajustar os limites dos eixos X e Y, possibilitando uma visualização dinâmica dos dados.</p>
+<div class="cell">
+<div class="code-copy-outer-scaffold"><div class="sourceCode cell-code" id="cb49"><pre class="sourceCode r code-with-copy"><code class="sourceCode r"><span id="cb49-1"><a href="#cb49-1" aria-hidden="true" tabindex="-1"></a>ui <span class="ot">&lt;-</span> <span class="fu">fluidPage</span>(</span>
+<span id="cb49-2"><a href="#cb49-2" aria-hidden="true" tabindex="-1"></a>  </span>
+<span id="cb49-3"><a href="#cb49-3" aria-hidden="true" tabindex="-1"></a>  <span class="fu">titlePanel</span>(<span class="st">"Dashboard - Análise de Dados"</span>),</span>
+<span id="cb49-4"><a href="#cb49-4" aria-hidden="true" tabindex="-1"></a>  </span>
+<span id="cb49-5"><a href="#cb49-5" aria-hidden="true" tabindex="-1"></a>  <span class="fu">sidebarLayout</span>(</span>
+<span id="cb49-6"><a href="#cb49-6" aria-hidden="true" tabindex="-1"></a>    <span class="fu">sidebarPanel</span>(</span>
+<span id="cb49-7"><a href="#cb49-7" aria-hidden="true" tabindex="-1"></a>      </span>
+<span id="cb49-8"><a href="#cb49-8" aria-hidden="true" tabindex="-1"></a>      <span class="fu">selectInput</span>(<span class="st">"variavel"</span>, <span class="st">"Selecione a variável:"</span>,</span>
+<span id="cb49-9"><a href="#cb49-9" aria-hidden="true" tabindex="-1"></a>                  <span class="at">choices =</span> <span class="fu">names</span>(dados)[<span class="fu">sapply</span>(dados, is.numeric)]),</span>
+<span id="cb49-10"><a href="#cb49-10" aria-hidden="true" tabindex="-1"></a>      </span>
+<span id="cb49-11"><a href="#cb49-11" aria-hidden="true" tabindex="-1"></a>      <span class="fu">selectInput</span>(<span class="st">"cor"</span>, <span class="st">"Escolha a cor:"</span>,</span>
+<span id="cb49-12"><a href="#cb49-12" aria-hidden="true" tabindex="-1"></a>                  <span class="at">choices =</span> <span class="fu">c</span>(<span class="st">"blue"</span>, <span class="st">"red"</span>, <span class="st">"green"</span>, <span class="st">"black"</span>)),</span>
+<span id="cb49-13"><a href="#cb49-13" aria-hidden="true" tabindex="-1"></a>      </span>
+<span id="cb49-14"><a href="#cb49-14" aria-hidden="true" tabindex="-1"></a>      <span class="fu">numericInput</span>(<span class="st">"xmin"</span>, <span class="st">"Limite inferior X:"</span>, <span class="at">value =</span> <span class="dv">1</span>),</span>
+<span id="cb49-15"><a href="#cb49-15" aria-hidden="true" tabindex="-1"></a>      <span class="fu">numericInput</span>(<span class="st">"xmax"</span>, <span class="st">"Limite superior X:"</span>, <span class="at">value =</span> <span class="dv">100</span>),</span>
+<span id="cb49-16"><a href="#cb49-16" aria-hidden="true" tabindex="-1"></a>      </span>
+<span id="cb49-17"><a href="#cb49-17" aria-hidden="true" tabindex="-1"></a>      <span class="fu">numericInput</span>(<span class="st">"ymin"</span>, <span class="st">"Limite inferior Y:"</span>, <span class="at">value =</span> <span class="dv">0</span>),</span>
+<span id="cb49-18"><a href="#cb49-18" aria-hidden="true" tabindex="-1"></a>      <span class="fu">numericInput</span>(<span class="st">"ymax"</span>, <span class="st">"Limite superior Y:"</span>, <span class="at">value =</span> <span class="dv">100000</span>)</span>
+<span id="cb49-19"><a href="#cb49-19" aria-hidden="true" tabindex="-1"></a>    ),</span>
+<span id="cb49-20"><a href="#cb49-20" aria-hidden="true" tabindex="-1"></a>    </span>
+<span id="cb49-21"><a href="#cb49-21" aria-hidden="true" tabindex="-1"></a>    <span class="fu">mainPanel</span>(</span>
+<span id="cb49-22"><a href="#cb49-22" aria-hidden="true" tabindex="-1"></a>      <span class="fu">plotOutput</span>(<span class="st">"grafico"</span>)</span>
+<span id="cb49-23"><a href="#cb49-23" aria-hidden="true" tabindex="-1"></a>    )</span>
+<span id="cb49-24"><a href="#cb49-24" aria-hidden="true" tabindex="-1"></a>  )</span>
+<span id="cb49-25"><a href="#cb49-25" aria-hidden="true" tabindex="-1"></a>)</span>
+<span id="cb49-26"><a href="#cb49-26" aria-hidden="true" tabindex="-1"></a></span>
+<span id="cb49-27"><a href="#cb49-27" aria-hidden="true" tabindex="-1"></a>server <span class="ot">&lt;-</span> <span class="cf">function</span>(input, output) {</span>
+<span id="cb49-28"><a href="#cb49-28" aria-hidden="true" tabindex="-1"></a>  </span>
+<span id="cb49-29"><a href="#cb49-29" aria-hidden="true" tabindex="-1"></a>  output<span class="sc">$</span>grafico <span class="ot">&lt;-</span> <span class="fu">renderPlot</span>({</span>
+<span id="cb49-30"><a href="#cb49-30" aria-hidden="true" tabindex="-1"></a>    </span>
+<span id="cb49-31"><a href="#cb49-31" aria-hidden="true" tabindex="-1"></a>    var <span class="ot">&lt;-</span> dados[[input<span class="sc">$</span>variavel]]</span>
+<span id="cb49-32"><a href="#cb49-32" aria-hidden="true" tabindex="-1"></a>    </span>
+<span id="cb49-33"><a href="#cb49-33" aria-hidden="true" tabindex="-1"></a>    df <span class="ot">&lt;-</span> <span class="fu">data.frame</span>(<span class="at">x =</span> <span class="dv">1</span><span class="sc">:</span><span class="fu">length</span>(var), <span class="at">y =</span> var)</span>
+<span id="cb49-34"><a href="#cb49-34" aria-hidden="true" tabindex="-1"></a>    </span>
+<span id="cb49-35"><a href="#cb49-35" aria-hidden="true" tabindex="-1"></a>    <span class="fu">ggplot</span>(df, <span class="fu">aes</span>(<span class="at">x =</span> x, <span class="at">y =</span> y)) <span class="sc">+</span></span>
+<span id="cb49-36"><a href="#cb49-36" aria-hidden="true" tabindex="-1"></a>      <span class="fu">geom_line</span>(<span class="at">color =</span> input<span class="sc">$</span>cor) <span class="sc">+</span></span>
+<span id="cb49-37"><a href="#cb49-37" aria-hidden="true" tabindex="-1"></a>      <span class="fu">xlim</span>(input<span class="sc">$</span>xmin, input<span class="sc">$</span>xmax) <span class="sc">+</span></span>
+<span id="cb49-38"><a href="#cb49-38" aria-hidden="true" tabindex="-1"></a>      <span class="fu">ylim</span>(input<span class="sc">$</span>ymin, input<span class="sc">$</span>ymax) <span class="sc">+</span></span>
+<span id="cb49-39"><a href="#cb49-39" aria-hidden="true" tabindex="-1"></a>      <span class="fu">labs</span>(<span class="at">title =</span> <span class="fu">paste</span>(<span class="st">"Gráfico de"</span>, input<span class="sc">$</span>variavel),</span>
+<span id="cb49-40"><a href="#cb49-40" aria-hidden="true" tabindex="-1"></a>           <span class="at">x =</span> <span class="st">"Índice"</span>,</span>
+<span id="cb49-41"><a href="#cb49-41" aria-hidden="true" tabindex="-1"></a>           <span class="at">y =</span> input<span class="sc">$</span>variavel)</span>
+<span id="cb49-42"><a href="#cb49-42" aria-hidden="true" tabindex="-1"></a>  })</span>
+<span id="cb49-43"><a href="#cb49-43" aria-hidden="true" tabindex="-1"></a>}</span>
+<span id="cb49-44"><a href="#cb49-44" aria-hidden="true" tabindex="-1"></a></span>
+<span id="cb49-45"><a href="#cb49-45" aria-hidden="true" tabindex="-1"></a><span class="fu">shinyApp</span>(<span class="at">ui =</span> ui, <span class="at">server =</span> server)</span></code></pre></div><button title="Copy to Clipboard" class="code-copy-button"><i class="bi"></i></button></div>
+<div class="cell-output-display">
+<p></p><div style="width: 100% ; height: 400px ; text-align: center; box-sizing: border-box; -moz-box-sizing: border-box; -webkit-box-sizing: border-box;" class="muted well">Shiny applications not supported in static R Markdown documents</div><p></p>
+</div>
+</div>
+<p><img src="shiny-dashboard.png" class="img-fluid"></p>
 </section>
 
 </main>
